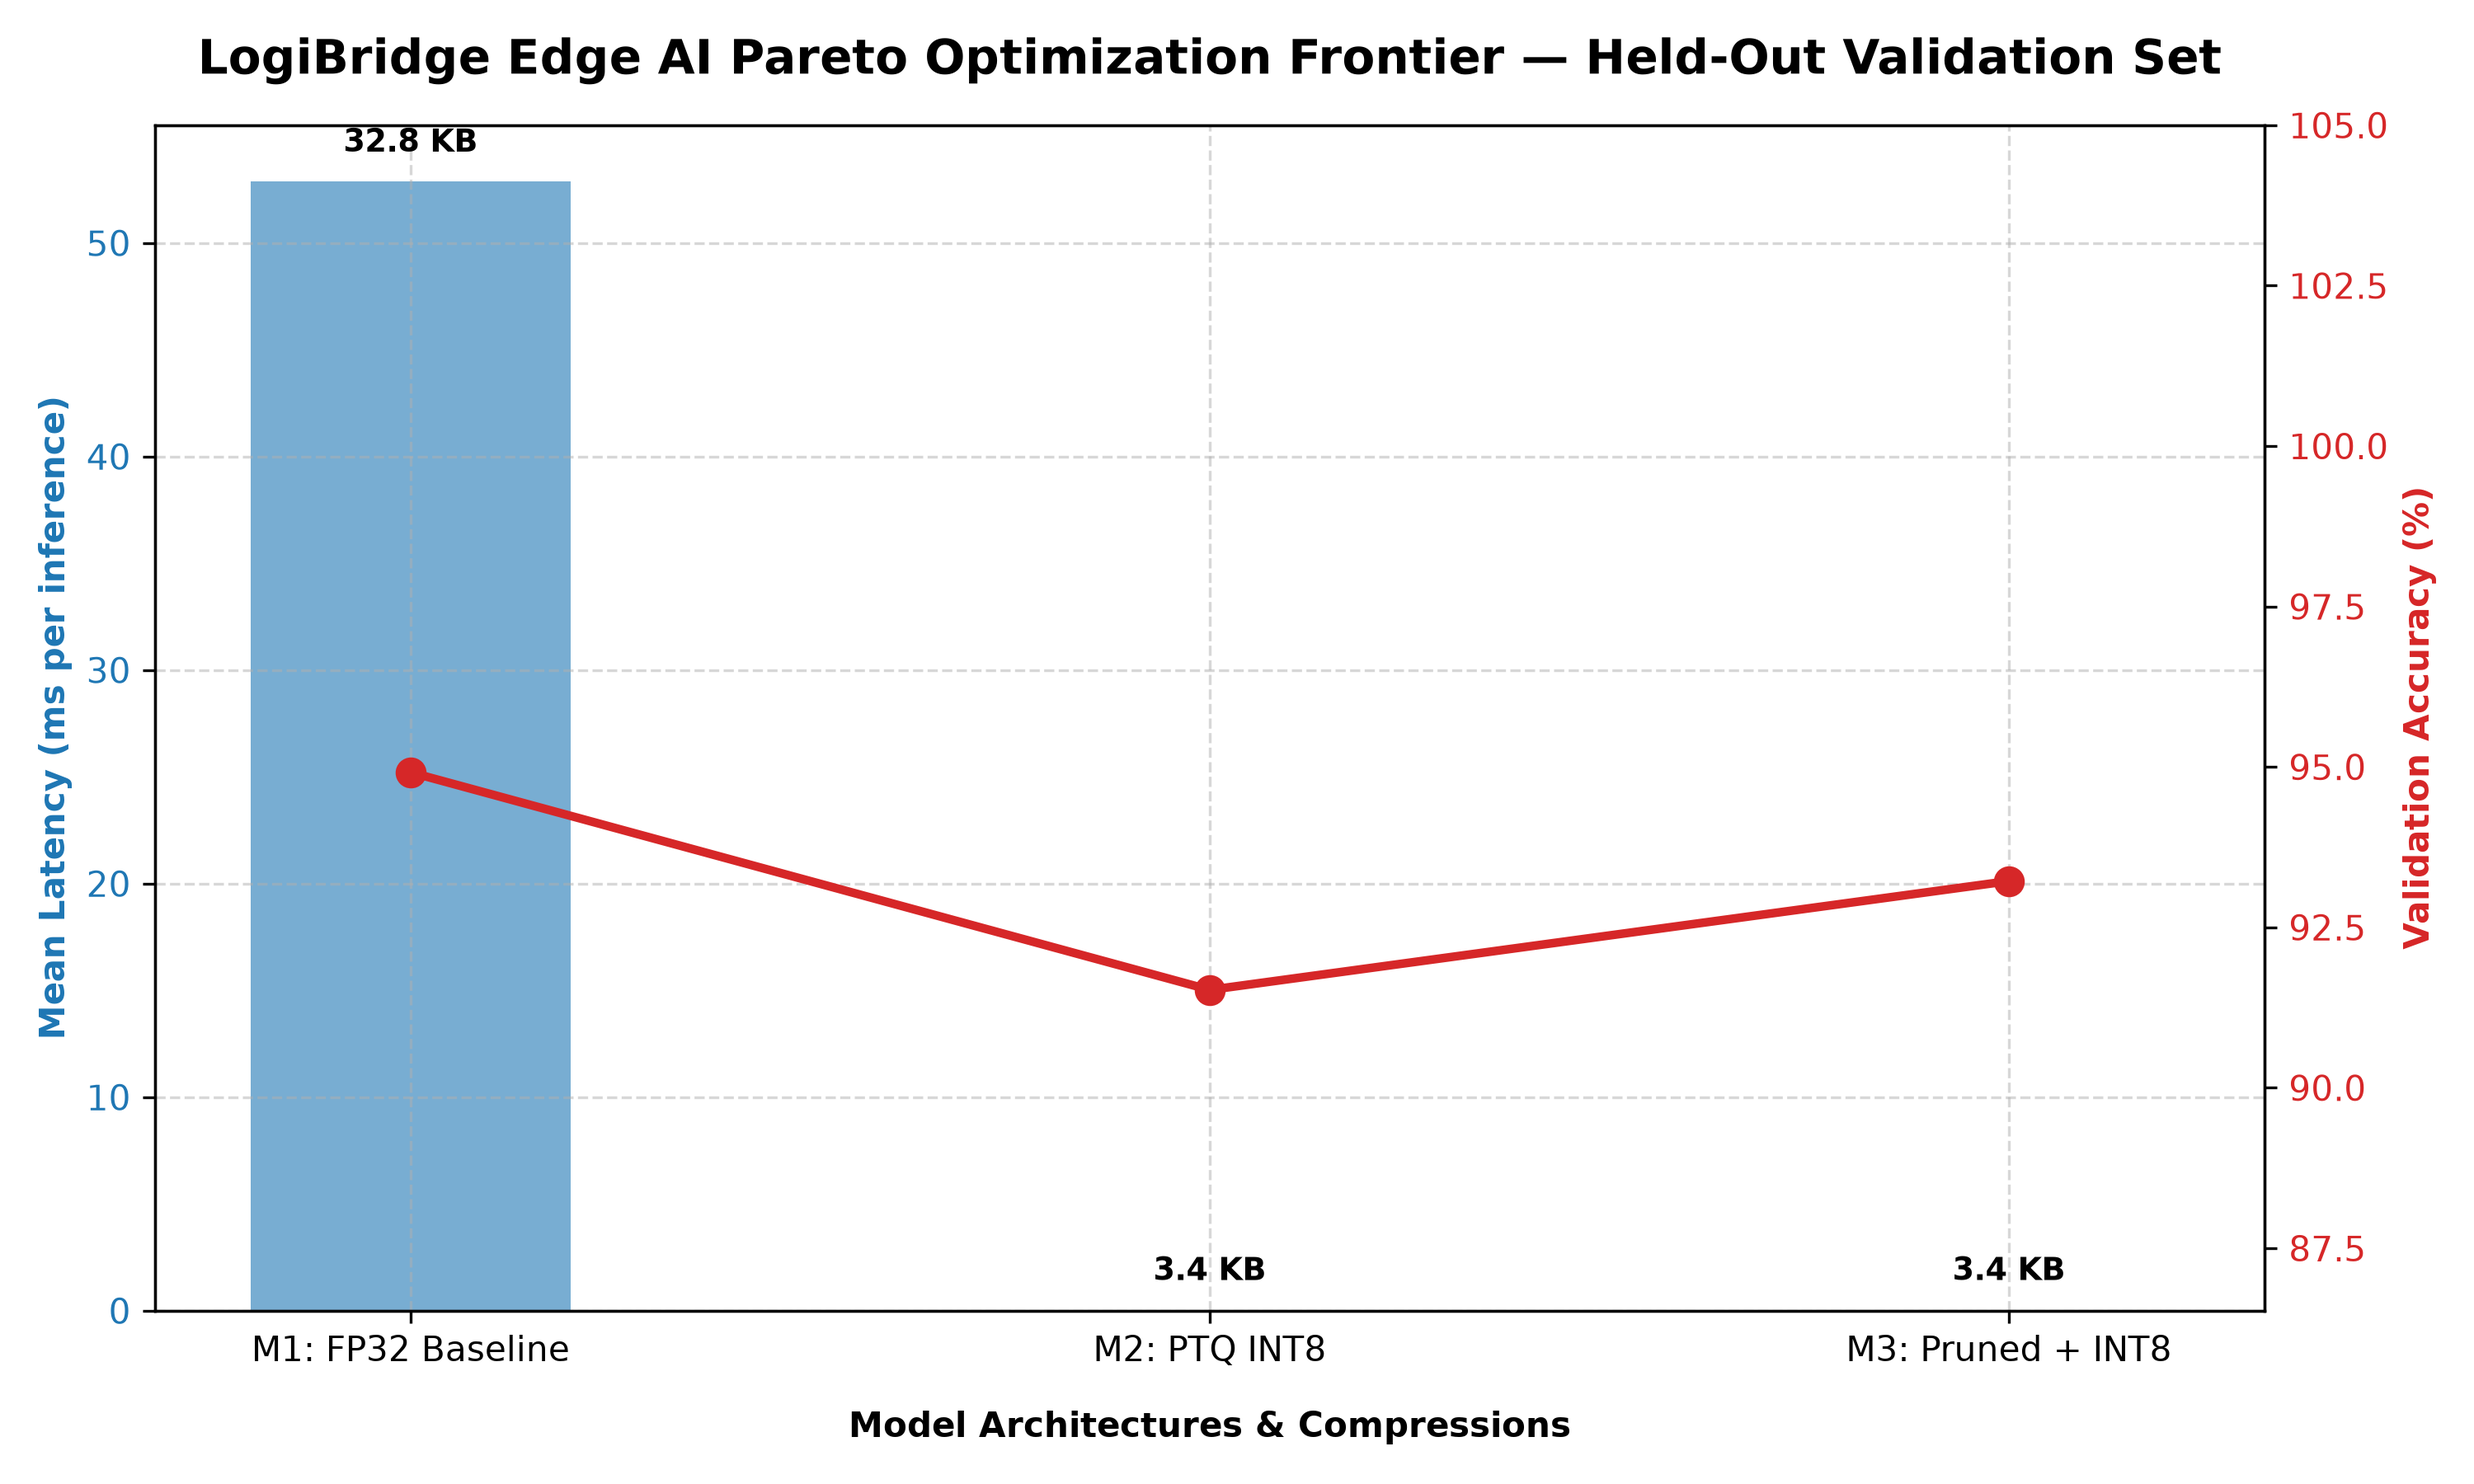
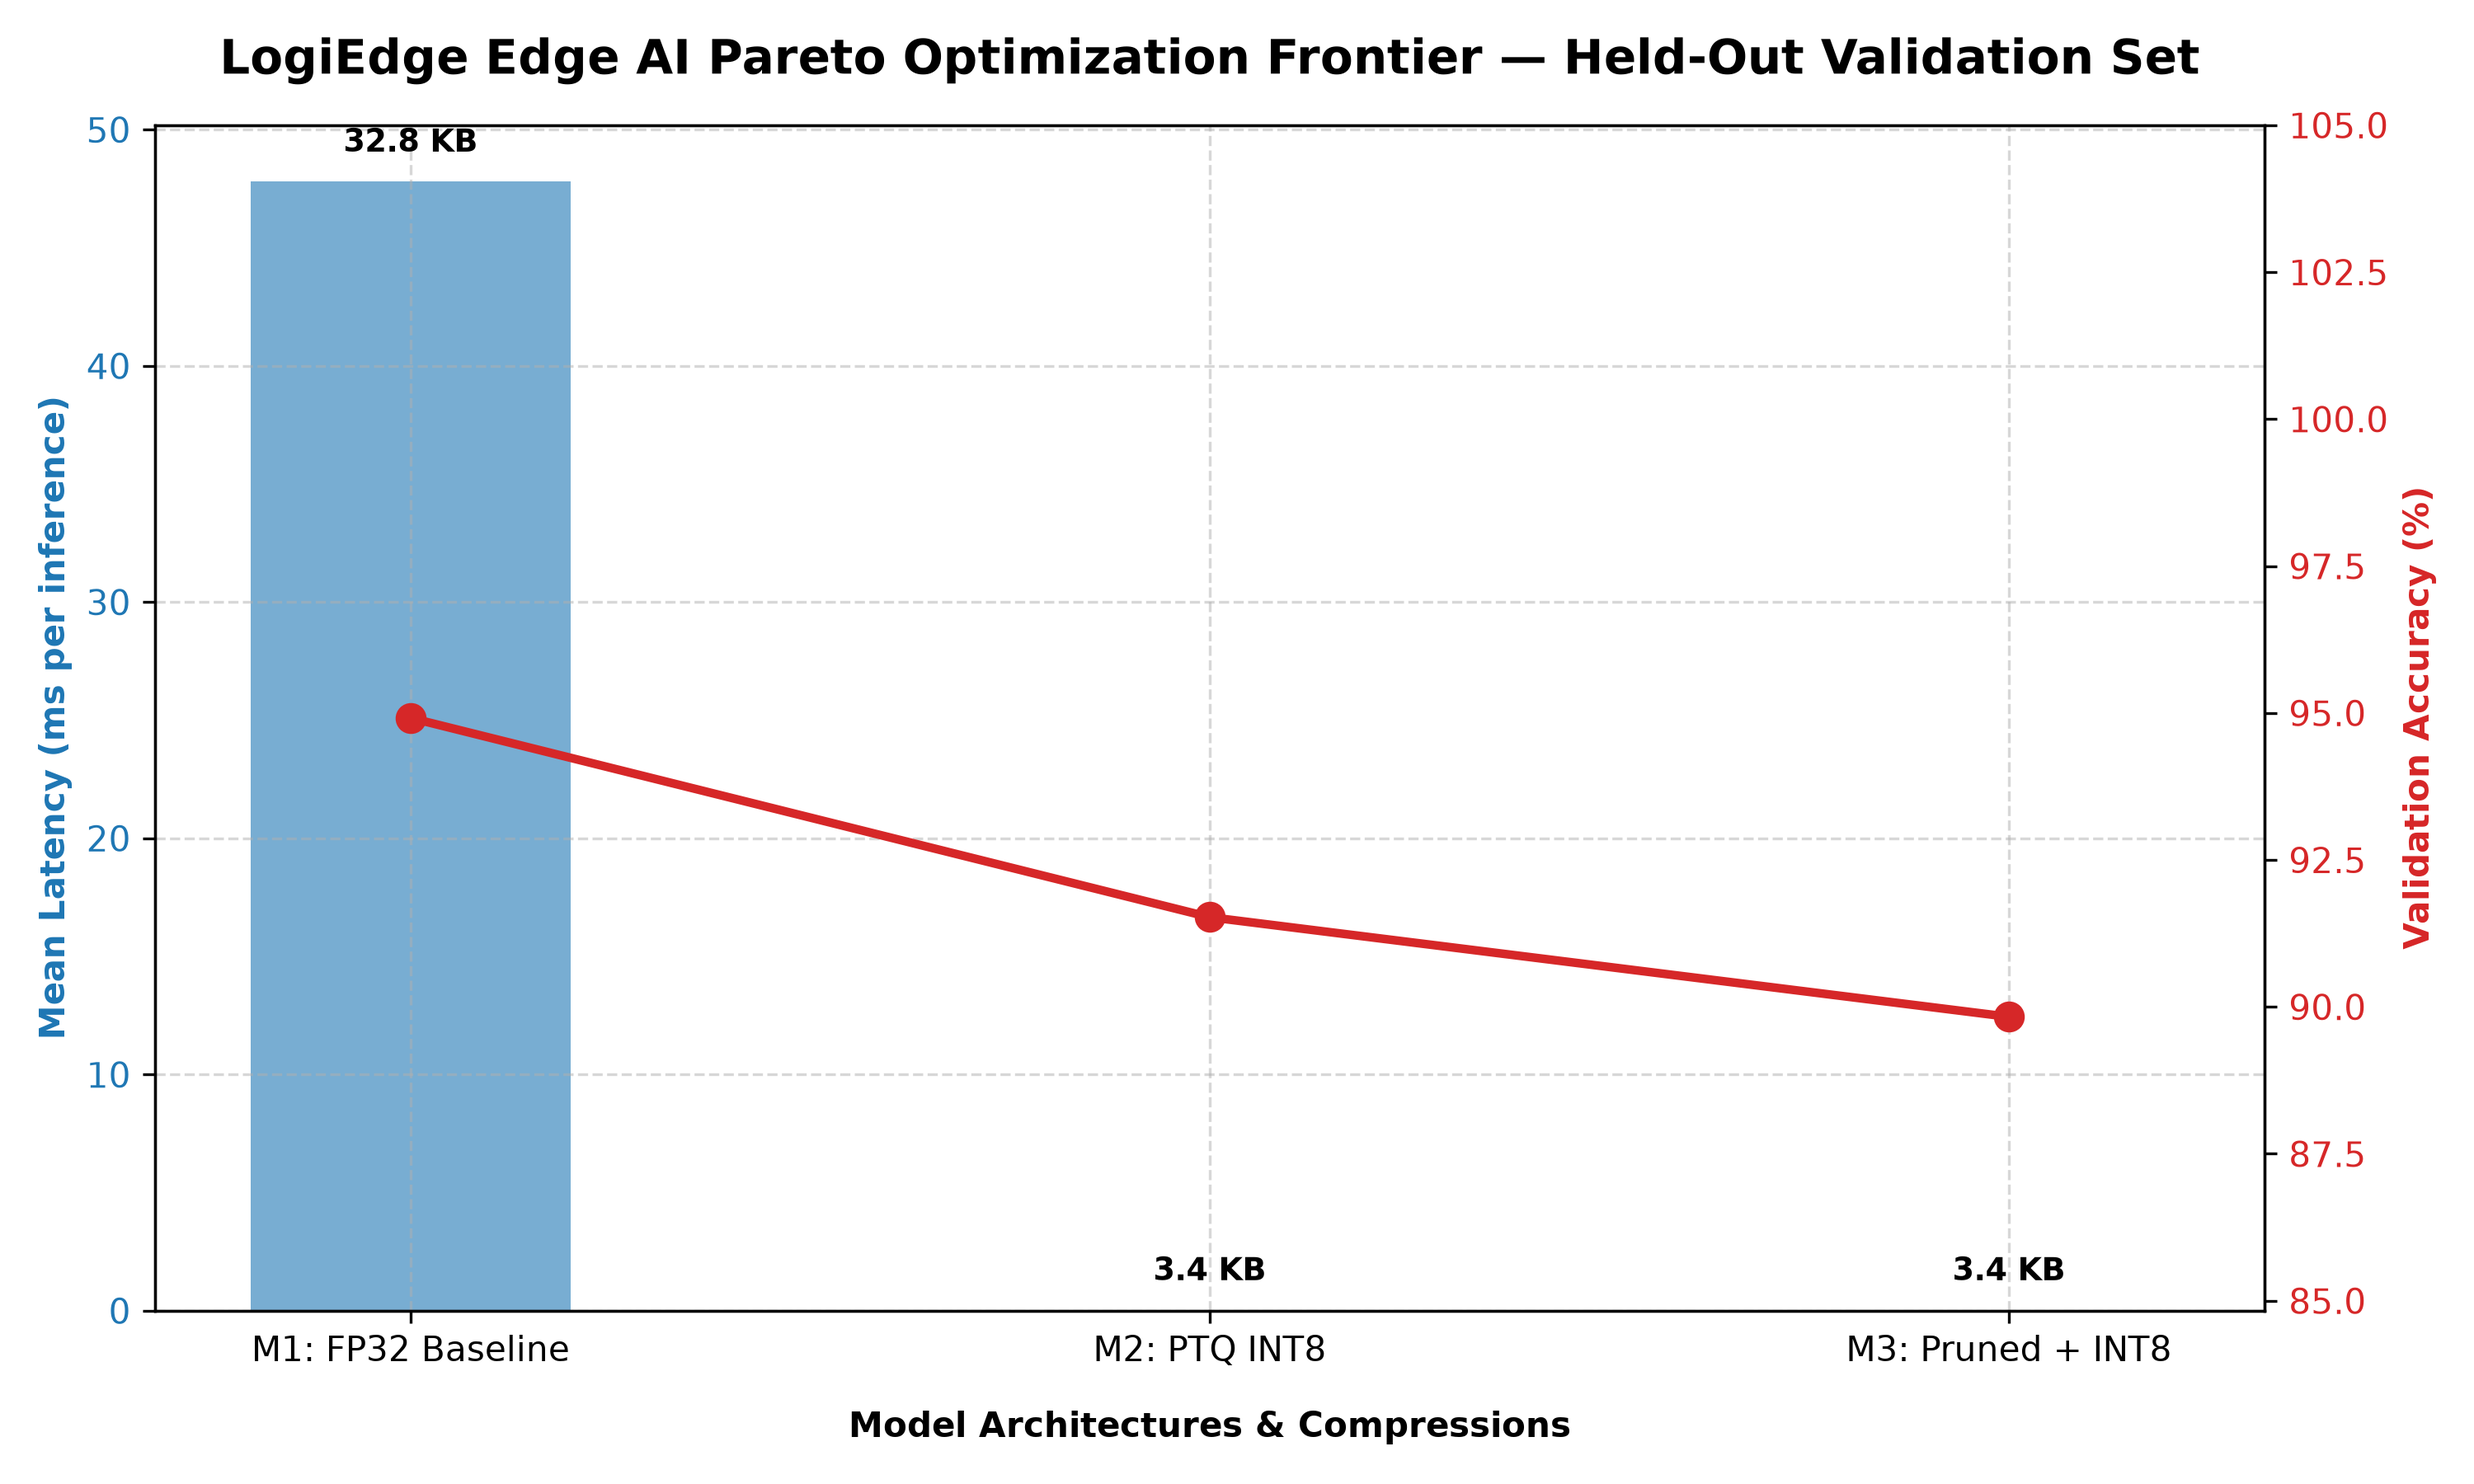
made minor to name of the project and similar changes in code

diff --git a/monitoring/drift_monitor.py b/monitoring/drift_monitor.py
@@ -10,11 +10,11 @@ TRUCK_ID = os.getenv("TRUCK_ID", "01")
 MQTT_BROKER = os.getenv("MQTT_BROKER", "mqtt-broker")
 MQTT_PORT = int(os.getenv("MQTT_PORT", "1883"))
 
-TOPIC_SUB_INF = f"logibridge/trucks/{TRUCK_ID}/inference"
+TOPIC_SUB_INF = f"LogiEdge/trucks/{TRUCK_ID}/inference"
 REF_PATH = "monitoring/reference_dist.json"
 
 CHECK_INTERVAL_SEC = 5
-MIN_SAMPLES = 20  # Analyzes drift when at least 5 samples arrive
+MIN_SAMPLES = 20  # Analyzes drift when at least 20 samples arrive
 
 with open(REF_PATH, "r") as f:
     ref = json.load(f)
@@ -60,7 +60,7 @@ def on_message(client, userdata, msg):
                 print(f"PSI Score: {psi:.4f} | Evaluated Samples: {len(confidence_history)}", flush=True)
                 print(f"Confidence Queue: {list(confidence_history)}", flush=True)
                 if psi > 0.25:
-                    print(f"[LOGIBRIDGE DRIFT ALERT] Distribution Shift Detected! (PSI={psi:.4f} > 0.25)", flush=True)
+                    print(f"[LogiEdge DRIFT ALERT] Distribution Shift Detected! (PSI={psi:.4f} > 0.25)", flush=True)
                 print("--------------------------------\n", flush=True)
             else:
                 print(f"[MONITOR STATUS] Accumulating samples... ({len(confidence_history)}/{MIN_SAMPLES})", flush=True)

diff --git a/data_pipeline/preprocessing.py b/data_pipeline/preprocessing.py
@@ -43,11 +43,11 @@ def on_message(client, userdata, msg):
             return
         val = payload["value"]
         
-        if msg.topic == "logibridge/trucks/01/sensors/temperature":
+        if msg.topic == "LogiEdge/trucks/01/sensors/temperature":
             filtered_val = moving_average(temp_filter_buf, val)
             temp_buffer.append(filtered_val)
             
-        elif msg.topic == "logibridge/trucks/01/sensors/vibration":
+        elif msg.topic == "LogiEdge/trucks/01/sensors/vibration":
             filtered_val = moving_average(vibe_filter_buf, val)
             vibe_buffer.append(filtered_val)
     except Exception as e:
@@ -58,8 +58,8 @@ def main():
     client.on_message = on_message
     client.connect("localhost", 1883, 60)
     
-    client.subscribe("logibridge/trucks/01/sensors/temperature")
-    client.subscribe("logibridge/trucks/01/sensors/vibration")
+    client.subscribe("LogiEdge/trucks/01/sensors/temperature")
+    client.subscribe("LogiEdge/trucks/01/sensors/vibration")
     
     client.loop_start()
     

diff --git a/inference/inference_service.py b/inference/inference_service.py
@@ -12,9 +12,9 @@ TRUCK_ID = os.getenv("TRUCK_ID", "01")
 
 MQTT_BROKER = os.getenv("MQTT_BROKER", "mqtt-broker")
 MQTT_PORT = int(os.getenv("MQTT_PORT", "1883"))
-TOPIC_SUB_TEMP = f"logibridge/trucks/{TRUCK_ID}/sensors/temperature"
-TOPIC_SUB_VIBE = f"logibridge/trucks/{TRUCK_ID}/sensors/vibration"
-TOPIC_PUB_INF  = f"logibridge/trucks/{TRUCK_ID}/inference"
+TOPIC_SUB_TEMP = f"LogiEdge/trucks/{TRUCK_ID}/sensors/temperature"
+TOPIC_SUB_VIBE = f"LogiEdge/trucks/{TRUCK_ID}/sensors/vibration"
+TOPIC_PUB_INF  = f"LogiEdge/trucks/{TRUCK_ID}/inference"
 
 # 2. Window Buffers
 temp_buffer = deque(maxlen=30)

diff --git a/data_pipeline/simulator.py b/data_pipeline/simulator.py
@@ -8,9 +8,9 @@ import os
 MQTT_BROKER = os.getenv("MQTT_BROKER", "mqtt-broker")
 MQTT_PORT = int(os.getenv("MQTT_PORT", "1883"))
 
-TOPIC_TEMP = "logibridge/trucks/01/sensors/temperature"
-TOPIC_VIBE = "logibridge/trucks/01/sensors/vibration"
-TOPIC_DOOR = "logibridge/trucks/01/sensors/door"
+TOPIC_TEMP = "LogiEdge/trucks/01/sensors/temperature"
+TOPIC_VIBE = "LogiEdge/trucks/01/sensors/vibration"
+TOPIC_DOOR = "LogiEdge/trucks/01/sensors/door"
 
 def parse_arguments():
     parser = argparse.ArgumentParser(description="LogiEdge Cold-Chain Sensor Simulator")

diff --git a/training/capture_dataset.py b/training/capture_dataset.py
@@ -10,8 +10,8 @@ from scipy.stats import kurtosis
 TRUCK_ID = "01"
 MQTT_BROKER = "localhost"
 MQTT_PORT = 1883
-TOPIC_TEMP = f"logibridge/trucks/{TRUCK_ID}/sensors/temperature"
-TOPIC_VIBE = f"logibridge/trucks/{TRUCK_ID}/sensors/vibration"
+TOPIC_TEMP = f"LogiEdge/trucks/{TRUCK_ID}/sensors/temperature"
+TOPIC_VIBE = f"LogiEdge/trucks/{TRUCK_ID}/sensors/vibration"
 
 temp_buffer = deque(maxlen=30)
 vibe_buffer = deque(maxlen=15)

diff --git a/optimisation/benchmark.py b/optimisation/benchmark.py
@@ -206,7 +206,7 @@ def generate_pareto_chart(results):
     ax2.tick_params(axis='y', labelcolor=color)
     ax2.set_ylim(min(accuracies) - 5, 105)
 
-    plt.title('LogiBridge Edge AI Pareto Optimization Frontier — Held-Out Validation Set',
+    plt.title('LogiEdge Edge AI Pareto Optimization Frontier — Held-Out Validation Set',
               fontweight='bold', fontsize=14, pad=15)
     fig.tight_layout()
 

diff --git a/data_pipeline/mqtt_architecture.md b/data_pipeline/mqtt_architecture.md
@@ -2,7 +2,7 @@
 
 ## 1. MQTT Topic Tree Topology
 
-logibridge/
+LogiEdge/
 └── trucks/
 └── {truck_id}/
 ├── sensors/
@@ -13,7 +13,7 @@ logibridge/
 
 
 ### Quality of Service (QoS) Strategy
-*   **`logibridge/trucks/{truck_id}/sensors/temperature` (QoS 1 - At Least Once):** Guarantees that slow-moving but critical pharmaceutical thermal fluctuations are registered by the local broker without packet drops.
-*   **`logibridge/trucks/{truck_id}/sensors/vibration` (QoS 0 - At Most Once):** Configured for high-frequency telemetric updates (0.5 Hz RMS calculation derived from 500 Hz raw stream). Dropping an occasional message is acceptable, whereas enforcing handshakes at this scale would risk network traffic saturation and broker buffering lag.
-*   **`logibridge/trucks/{truck_id}/sensors/door` (QoS 1 - At Least Once):** Door open/close configurations represent discrete events that alter thermal containment dynamics. These events must be delivered reliably.
-*   **`logibridge/trucks/{truck_id}/alerts` (QoS 2 - Exactly Once):** Reserved exclusively for System St
+*   **`LogiEdge/trucks/{truck_id}/sensors/temperature` (QoS 1 - At Least Once):** Guarantees that slow-moving but critical pharmaceutical thermal fluctuations are registered by the local broker without packet drops.
+*   **`LogiEdge/trucks/{truck_id}/sensors/vibration` (QoS 0 - At Most Once):** Configured for high-frequency telemetric updates (0.5 Hz RMS calculation derived from 500 Hz raw stream). Dropping an occasional message is acceptable, whereas enforcing handshakes at this scale would risk network traffic saturation and broker buffering lag.
+*   **`LogiEdge/trucks/{truck_id}/sensors/door` (QoS 1 - At Least Once):** Door open/close configurations represent discrete events that alter thermal containment dynamics. These events must be delivered reliably.
+*   **`LogiEdge/trucks/{truck_id}/alerts` (QoS 2 - Exactly Once):** Reserved exclusively for System St
